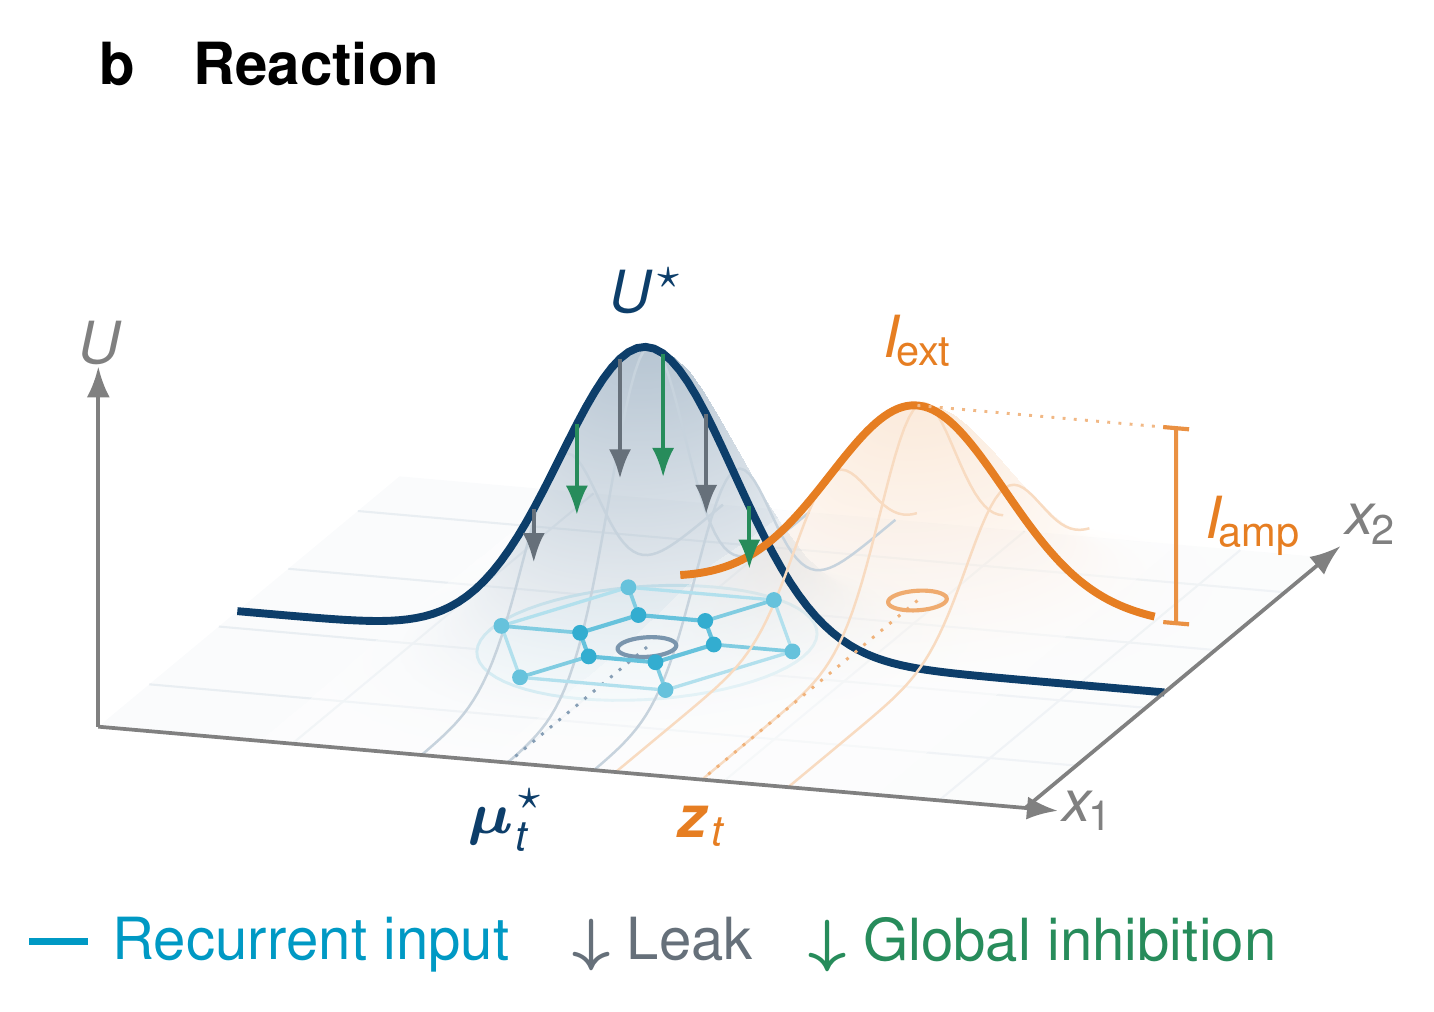
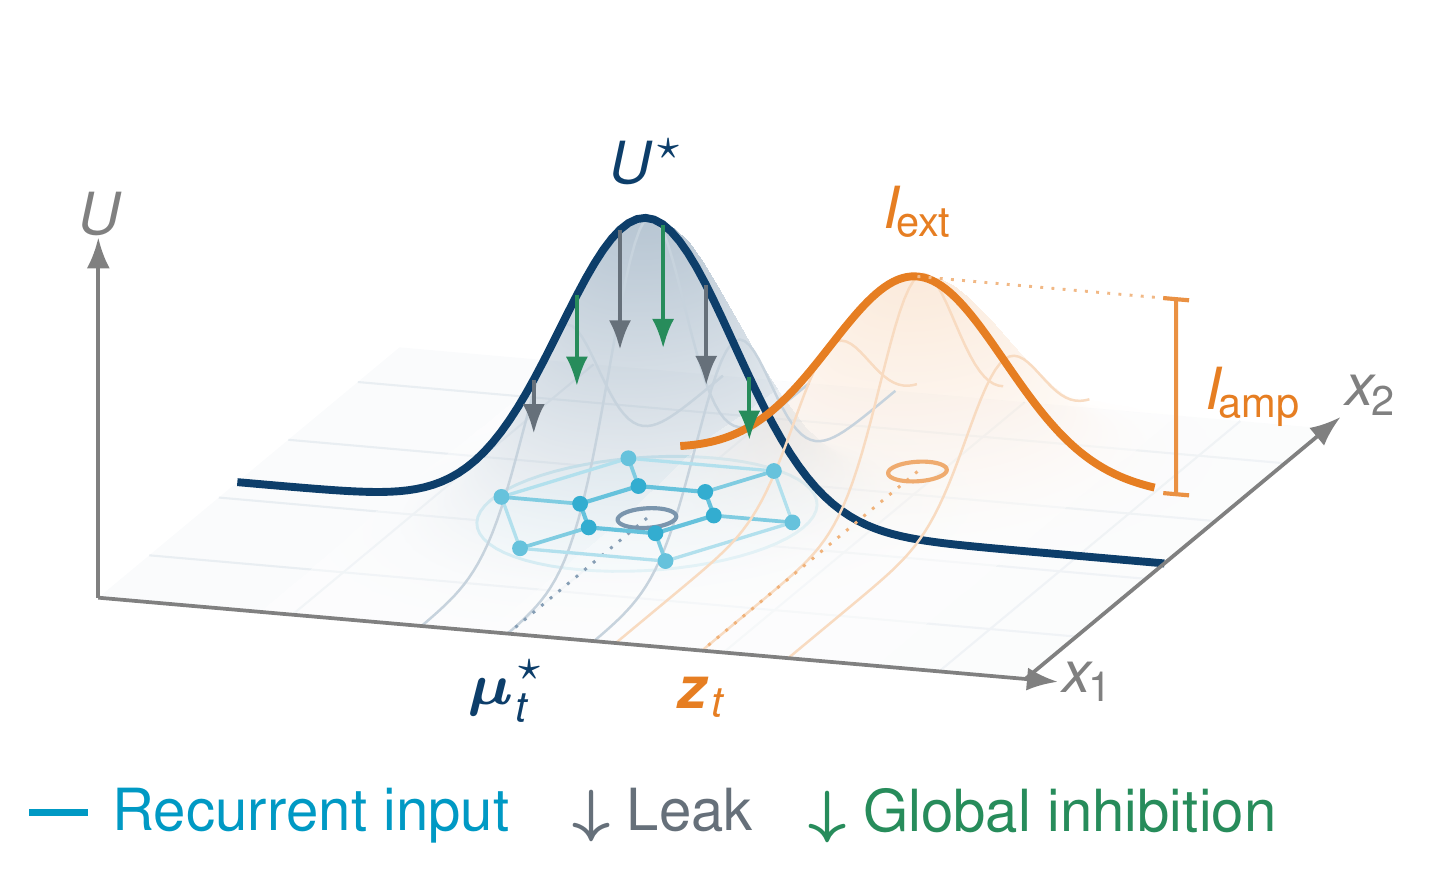
Update CANN figure and simplify local image source storage

diff --git a/README.md b/README.md
@@ -19,28 +19,28 @@ CV나 프로필 사진은 같은 파일 이름으로 교체하면 됩니다. 원
 
 ## 2. 논문과 상장 파일 정리
 
-논문·상장은 **항목마다 폴더 하나**에 모읍니다. 홈페이지에는 `figure.png` 또는 `certificate.jpg`를 사용합니다. 원본 PDF·PNG·JPG는 각 폴더의 `sources/`에 보관하며 공개하지 않습니다.
+논문·상장은 **항목마다 폴더 하나**에 모으고, 공개할 최종 `figure.png` 또는 `certificate.jpg`만 둡니다. 기존 원본 8개는 `.archive/original-figures.zip` 하나로 압축 보관합니다. 이 압축파일은 Git에서 제외해 컴퓨터에만 남깁니다.
 
 ```text
 publications/
 ├── journal/
-│   ├── shaping-filter-ekf/              # figure.png + sources/
+│   ├── shaping-filter-ekf/              # figure.png
 │   ├── aerial-threat-review/            # 현재 그림 없음
-│   ├── bayesian-cann/                   # figure.png + sources/
-│   ├── adaptive-tobit-kalman-filter/     # figure.png + sources/
-│   └── lstm-kalman-filter/              # figure.png + sources/
+│   ├── bayesian-cann/                   # figure.png
+│   ├── adaptive-tobit-kalman-filter/     # figure.png
+│   └── lstm-kalman-filter/              # figure.png
 └── conference/
     ├── threat-assessment-eda/            # 현재 그림 없음
     └── parameter-updating-dbn/           # 현재 그림 없음
 
 awards/
-├── masters-excellence-scholarship/       # certificate.jpg + sources/
-├── national-science-technology-scholarship/ # certificate.jpg + sources/
-├── ev-energy-challenger/                 # certificate.jpg + sources/
+├── masters-excellence-scholarship/       # certificate.jpg
+├── national-science-technology-scholarship/ # certificate.jpg
+├── ev-energy-challenger/                 # certificate.jpg
 └── academic-excellence-scholarships/      # 현재 그림 없음
 ```
 
-그림이 없는 폴더의 `.gitkeep`는 빈 폴더를 Git에 남겨 두는 파일입니다. 그림을 넣기 전까지 그대로 두면 됩니다. 새 상장은 생년월일과 증서번호를 가린 공개용 `certificate.jpg`를 사용하고, 원본은 `sources/`에 보존합니다.
+그림이 없는 폴더의 `.gitkeep`는 빈 폴더를 Git에 남겨 두는 파일입니다. 그림을 넣기 전까지 그대로 두면 됩니다. 새 상장은 생년월일과 증서번호를 가린 공개용 `certificate.jpg`를 사용합니다.
 
 ## 3. 연구 그림 추가·교체
 
@@ -56,7 +56,9 @@ awards/
 <article class="publication" data-type="journal" data-image="">
 ```
 
-`data-image` 속성을 넣지 않아도 글만 표시됩니다. 그림을 불러오지 못해도 글은 그대로 보입니다. 그림이 있으면 데스크톱에서 같은 크기의 왼쪽 썸네일로 배치되고, 누르면 크게 볼 수 있습니다. 좁은 모바일 화면에도 자동으로 맞춰집니다.
+`data-image` 속성을 넣지 않아도 글만 표시됩니다. 그림을 불러오지 못해도 글은 그대로 보입니다. 그림은 누르면 크게 볼 수 있습니다.
+
+데스크톱에서는 왼쪽에 폭 186px의 같은 **4:3 틀**로 배치합니다. 그림 전체가 원래 비율을 유지하며 가로·세로 중앙에 들어갑니다. 세로 그림은 좌우에, 가로 그림은 위아래에 여백이 생길 수 있습니다. 이미지 파일 자체에 들어 있는 흰 여백은 자동으로 제거하지 않습니다. 모바일에서는 원래 비율에 따라 높이를 맞추며, 최대 폭 260px·높이 210px 안에 표시합니다.
 
 ## 4. GitHub에서 홈페이지 업데이트하기
 
@@ -69,7 +71,7 @@ awards/
 3. 컴퓨터에서 고친 파일을 올릴 때는 **GitHub의 같은 폴더**를 연 뒤 **Add file → Upload files**를 누르세요. 예를 들어 연구 그림을 바꿨다면 `publications/journal/shaping-filter-ekf/` 안에서 **`figure.png` 하나만** 선택합니다. 상장은 해당 `awards/항목이름/` 안에서 **`certificate.jpg` 하나만** 선택합니다.
 4. `index.html`, `styles.css`, `script.js`는 저장소 맨 위에 올리고, CV는 `assets/` 안에 `cv.pdf`로 올리세요. 올릴 파일을 확인한 다음 **Commit changes**를 누르세요.
 
-**웹 화면의 Upload files에는 `.gitignore`의 제외 규칙이 적용되지 않습니다.** `sources/`, `CV/`, 이 작업 폴더 전체, 또는 `sources/`가 든 논문·상장 폴더를 통째로 끌어다 놓지 마세요. 공개할 `figure.png`나 `certificate.jpg` 등 사이트용 파일만 직접 선택하세요. `.gitignore`는 로컬 Git에서 원본용 `sources/`와 `CV/`를 제외하는 용도입니다.
+**웹 화면의 Upload files에는 `.gitignore`가 적용되지 않습니다.** `.archive/`, `CV/`, `.preview/`나 작업 폴더 전체를 올리지 말고, 공개할 사이트용 파일만 선택하세요. 이 세 폴더는 로컬 Git에서도 제외합니다.
 
 파일 위치를 바꾸면 `index.html`의 경로도 함께 바꿔야 합니다. GitHub에서 직접 문구를 고친 경우에는 컴퓨터 파일도 같은 내용으로 맞춰 두면 다음 업로드 때 헷갈리지 않습니다.
 
